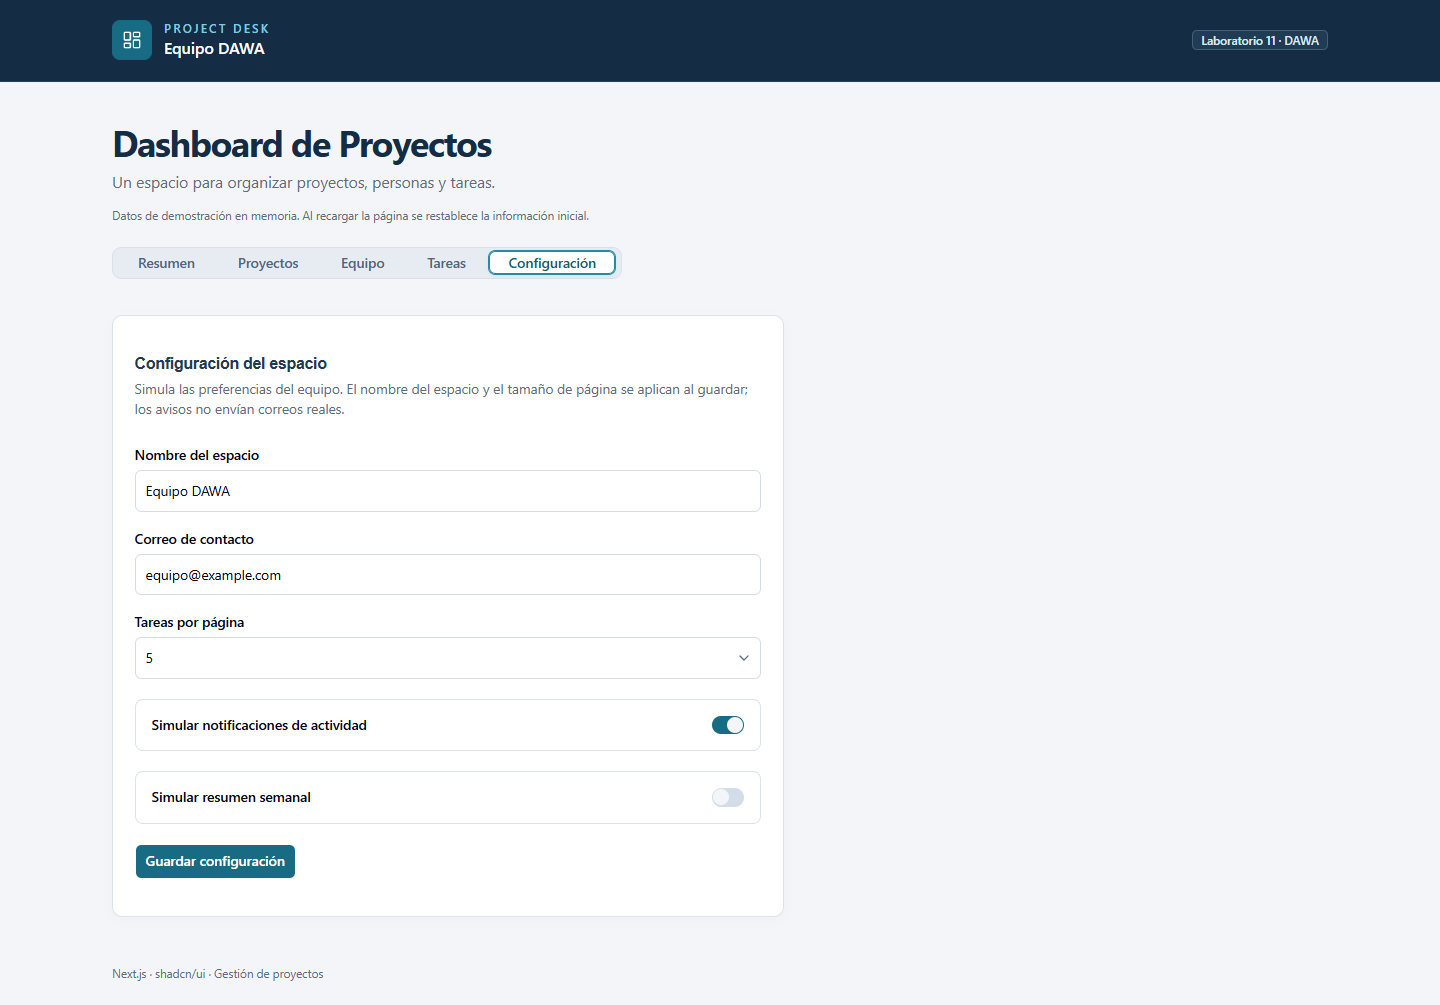
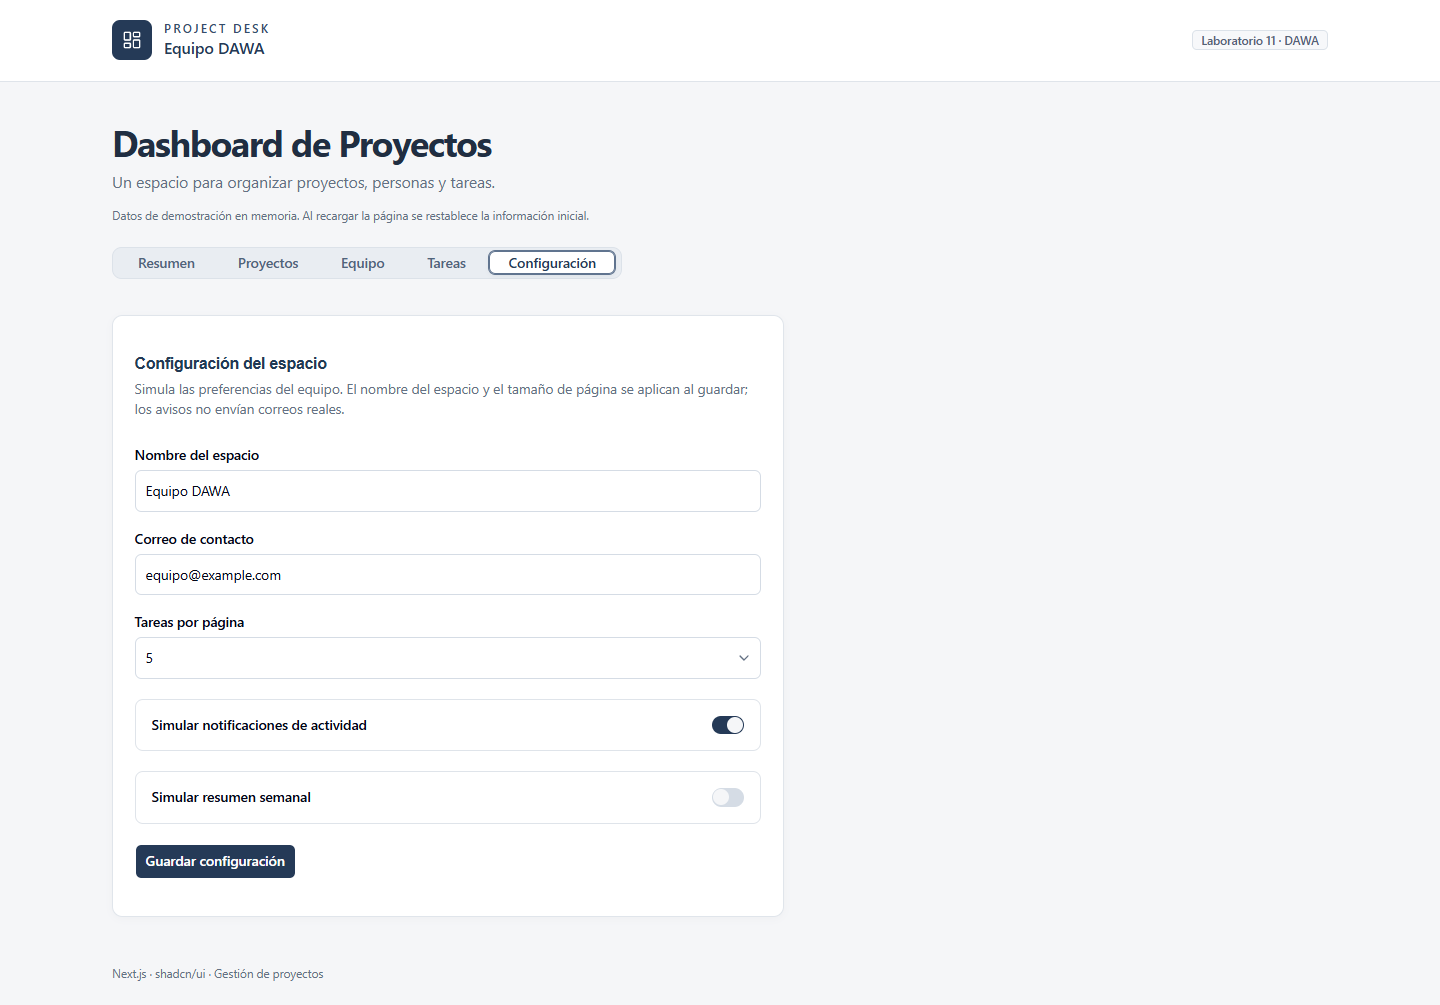
style: adopt a restrained navy and neutral palette

diff --git a/next-shadcn-ui/src/app/globals.css b/next-shadcn-ui/src/app/globals.css
@@ -214,3 +214,28 @@ main h2 { color: #152c45; font-weight: 650; }
 [data-slot="popover-content"] { background: #fff; }
 .section-heading { padding-bottom: 0.4rem; }
 @media (max-width: 640px) { main { padding-top: 1.75rem; } [data-slot="tabs-trigger"] { padding: 0.6rem 0.8rem; } }
+
+/* Paleta institucional sobria */
+:root {
+  --background: #f5f6f8;
+  --foreground: #202b3b;
+  --primary: #253a57;
+  --primary-foreground: #ffffff;
+  --muted: #f0f2f5;
+  --muted-foreground: #647184;
+  --secondary: #eef1f5;
+  --secondary-foreground: #34445b;
+  --accent: #edf1f6;
+  --accent-foreground: #253a57;
+  --border: #dfe4ea;
+  --input: #d5dce5;
+  --ring: #60748f;
+}
+header.border-b.bg-card { background: #ffffff; color: #253a57; border-color: #dfe4ea; }
+header p.text-primary { color: #344c6b; }
+header [data-slot="badge"] { color: #536176; border-color: #dce2e9; background: #f7f8fa; }
+main h1, main h2 { color: #202e42; }
+[data-slot="tabs-list"] { background: #e9edf2; border-color: #dce2e9; }
+[data-slot="tabs-trigger"][data-state="active"] { color: #253a57; }
+[data-slot="card"] { border-color: #e0e5eb; box-shadow: 0 2px 8px #1c2d4208; }
+[data-slot="table-header"] { background: #f1f3f6; }
